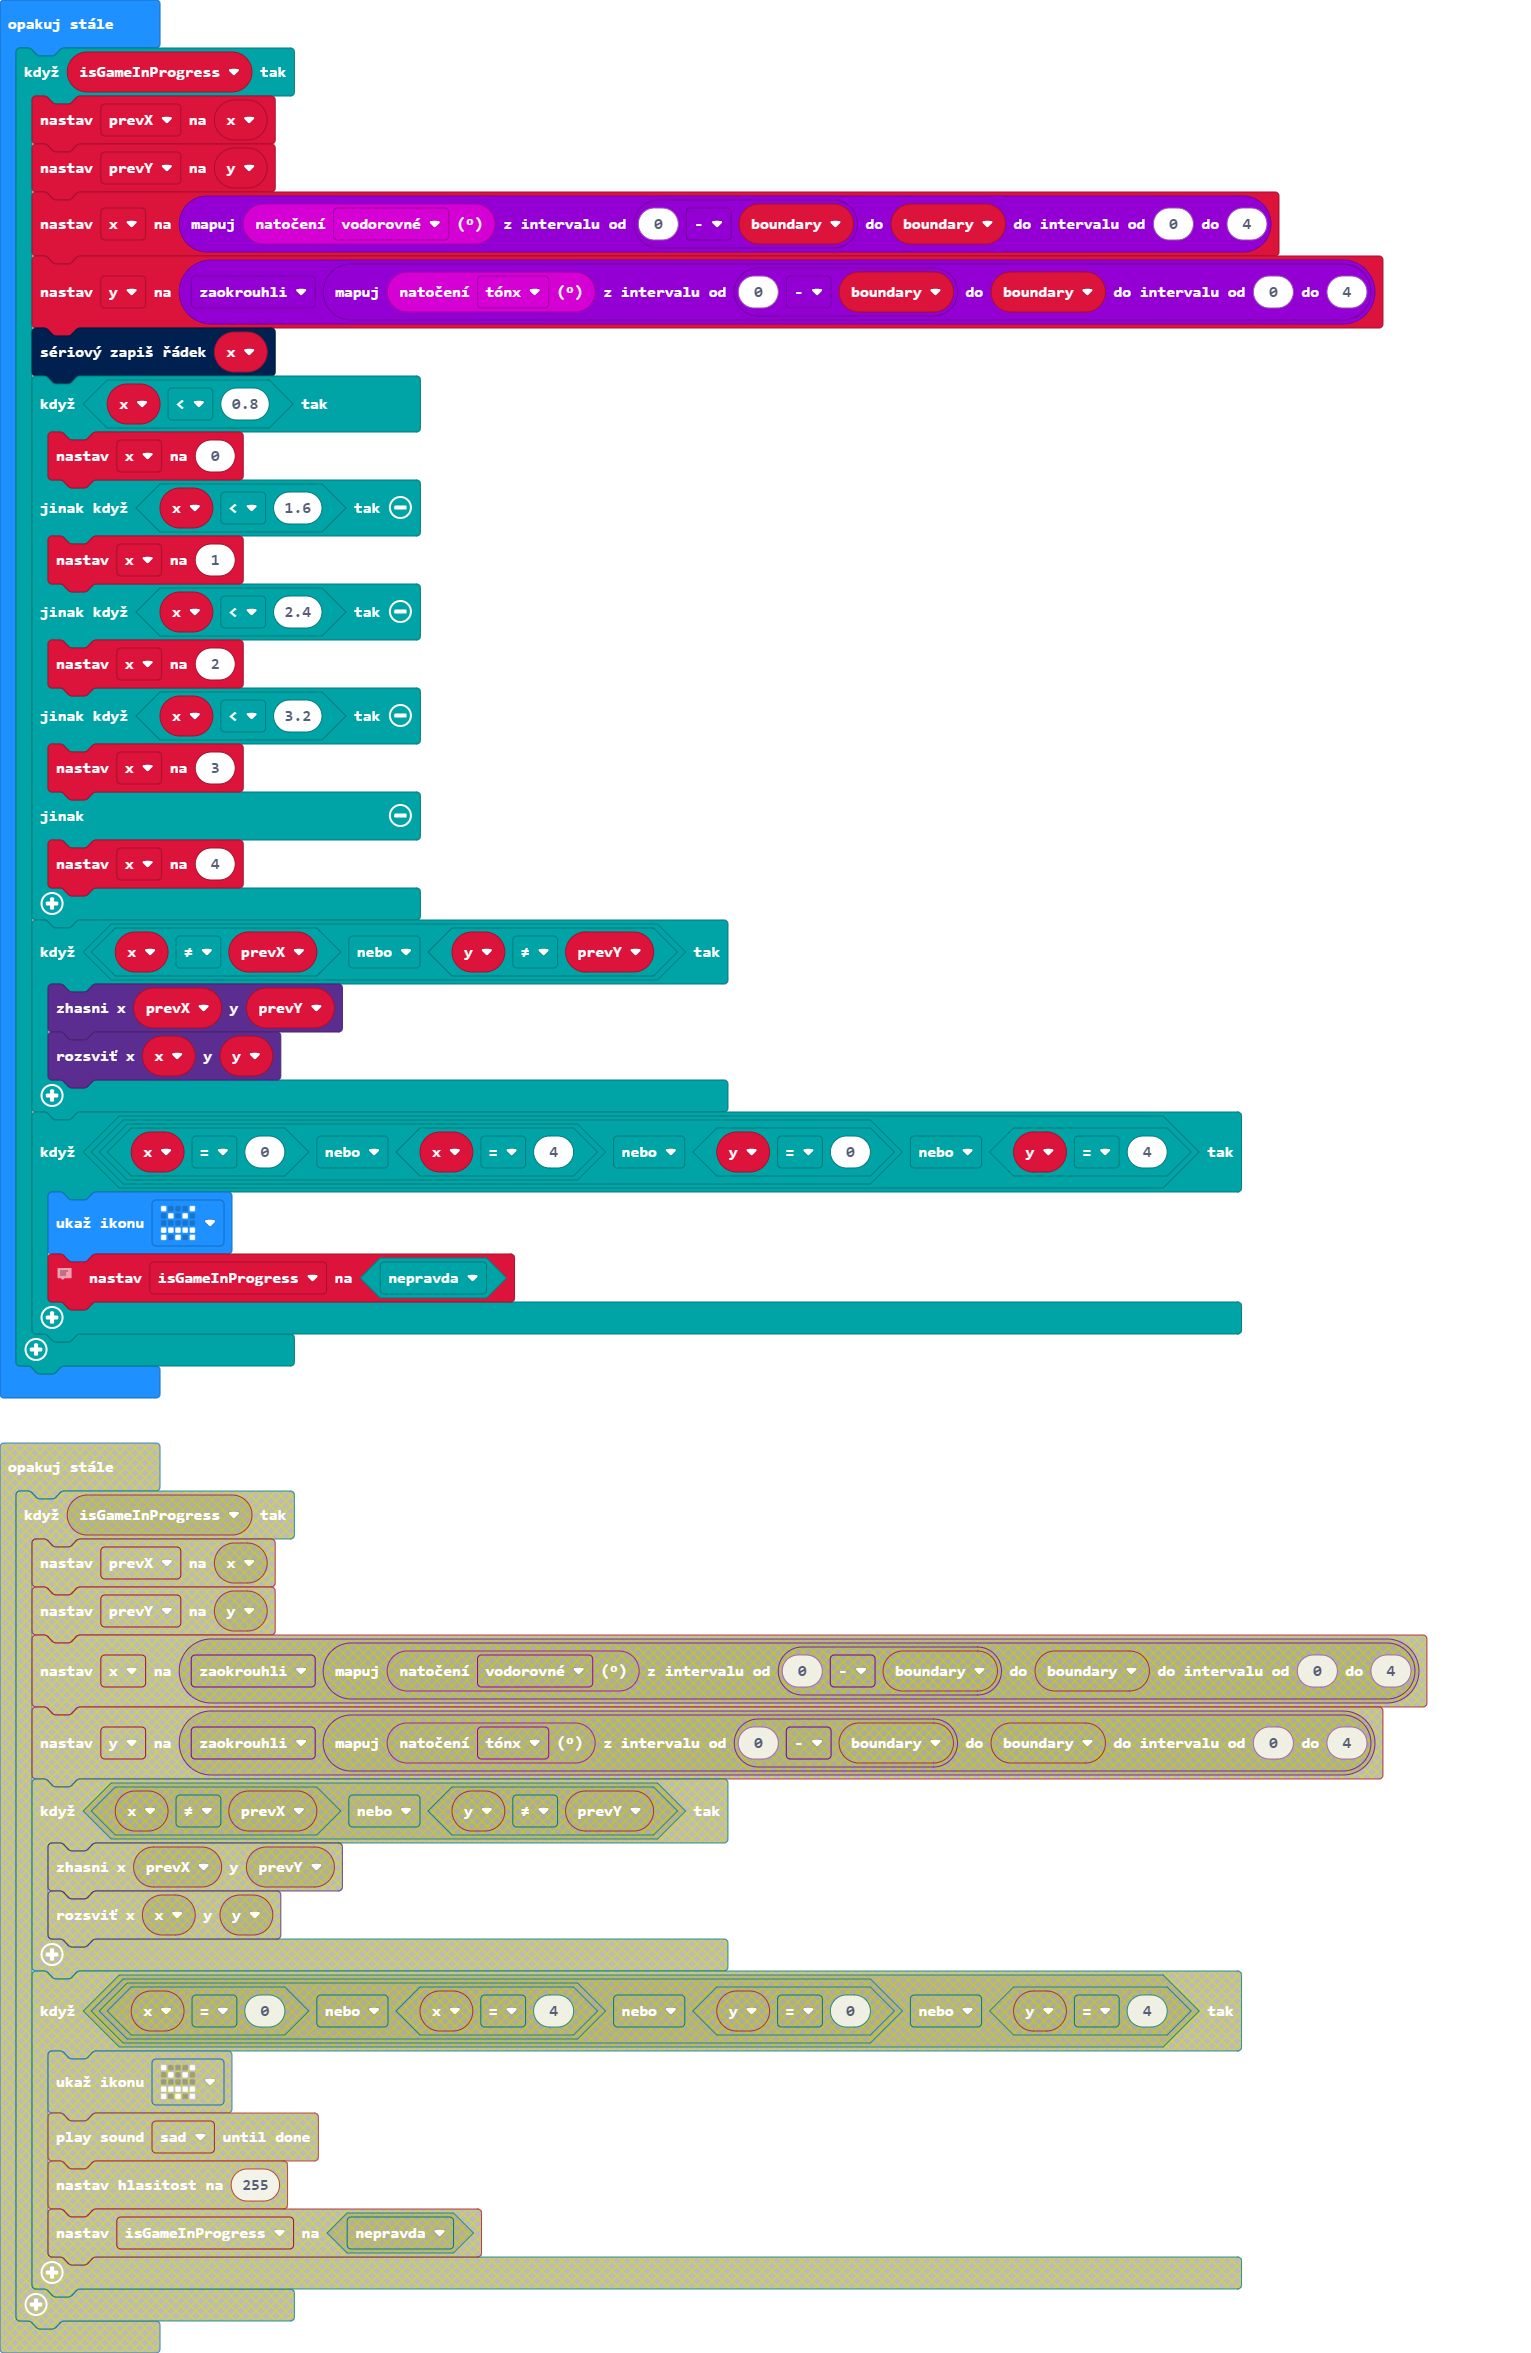
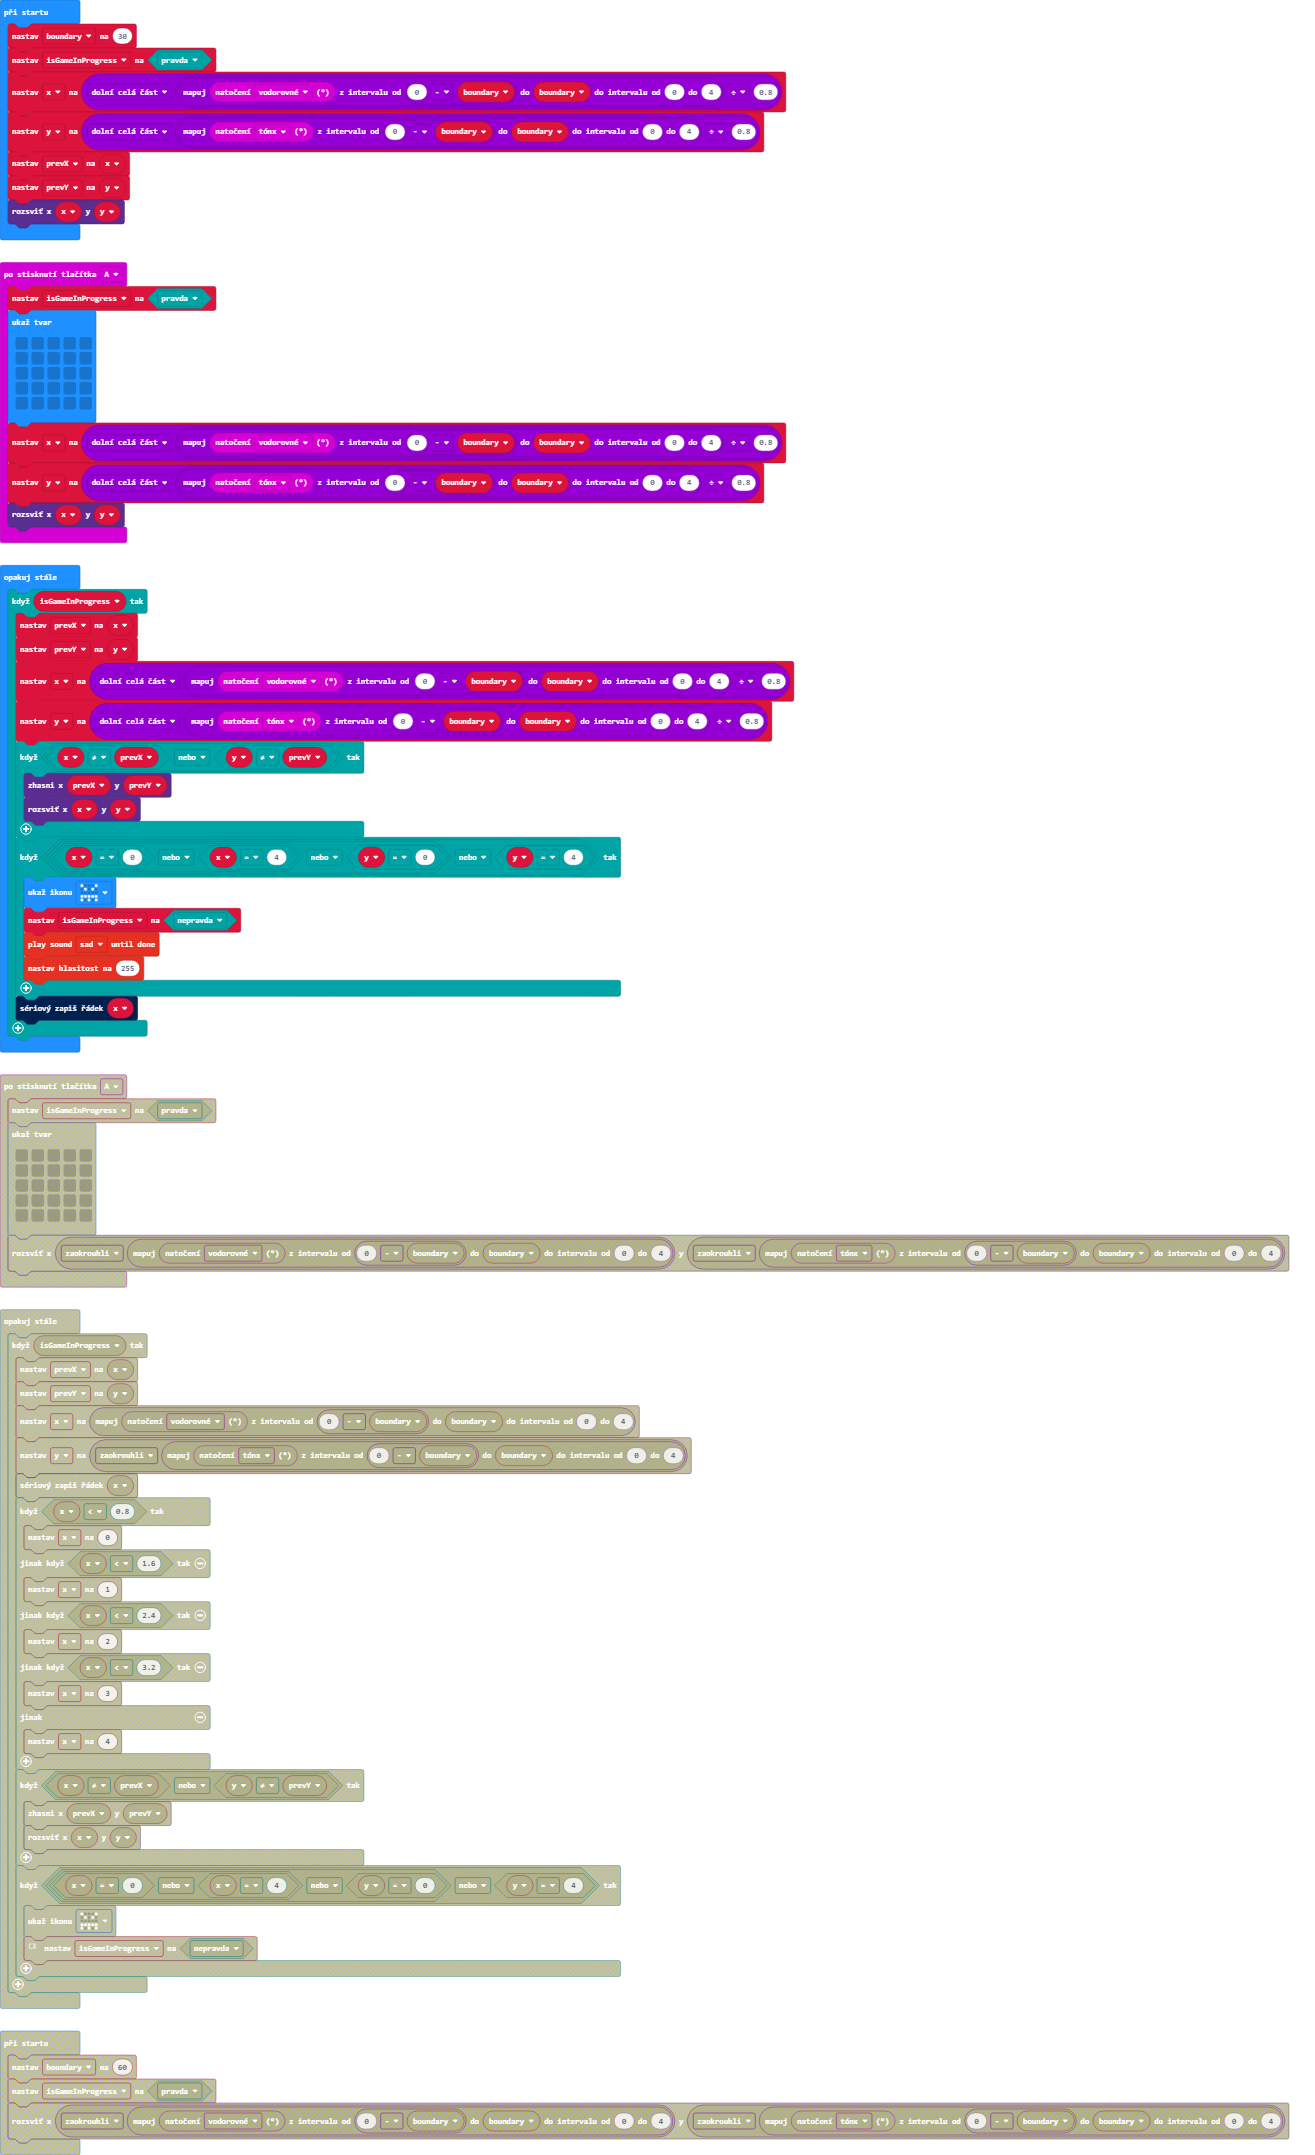
some changes

diff --git a/main.ts b/main.ts
@@ -1,7 +1,24 @@
-let boundary = 30
-let isGameInProgress = true
-let x = Math.floor((Math.map(input.rotation(Rotation.Roll), 0 - boundary, boundary, 0, 4)) / 0.8)
-let y = Math.floor((Math.map(input.rotation(Rotation.Pitch), 0 - boundary, boundary, 0, 4)) / 0.8)
+input.onButtonPressed(Button.A, function () {
+    isGameInProgress = true
+    basic.showLeds(`
+        . . . . .
+        . . . . .
+        . . . . .
+        . . . . .
+        . . . . .
+        `)
+    x = Math.floor(Math.map(input.rotation(Rotation.Roll), 0 - boundary, boundary, 0, 4) / 0.8)
+    y = Math.floor(Math.map(input.rotation(Rotation.Pitch), 0 - boundary, boundary, 0, 4) / 0.8)
+    led.plot(x, y)
+})
+let y = 0
+let x = 0
+let isGameInProgress = false
+let boundary = 0
+boundary = 30
+isGameInProgress = true
+x = Math.floor(Math.map(input.rotation(Rotation.Roll), 0 - boundary, boundary, 0, 4) / 0.8)
+y = Math.floor(Math.map(input.rotation(Rotation.Pitch), 0 - boundary, boundary, 0, 4) / 0.8)
 let prevX = x
 let prevY = y
 led.plot(x, y)
@@ -9,9 +26,8 @@ basic.forever(function () {
     if (isGameInProgress) {
         prevX = x
         prevY = y
-        x = Math.floor((Math.map(input.rotation(Rotation.Roll), 0 - boundary, boundary, 0, 4)) / 0.8)
-        y = Math.floor((Math.map(input.rotation(Rotation.Pitch), 0 - boundary, boundary, 0, 4)) / 0.8)
-
+        x = Math.floor(Math.map(input.rotation(Rotation.Roll), 0 - boundary, boundary, 0, 4) / 0.8)
+        y = Math.floor(Math.map(input.rotation(Rotation.Pitch), 0 - boundary, boundary, 0, 4) / 0.8)
         if (x != prevX || y != prevY) {
             led.unplot(prevX, prevY)
             led.plot(x, y)
@@ -22,20 +38,6 @@ basic.forever(function () {
             soundExpression.sad.playUntilDone()
             music.setVolume(255)
         }
-        serial.writeLine("" + x)
+        serial.writeLine("" + (x))
     }
-})
-
-input.onButtonPressed(Button.A, function () {
-    isGameInProgress = true
-    basic.showLeds(`
-        . . . . .
-        . . . . .
-        . . . . .
-        . . . . .
-        . . . . .
-        `)
-    x = Math.floor((Math.map(input.rotation(Rotation.Roll), 0 - boundary, boundary, 0, 4)) / 0.8)
-    y = Math.floor((Math.map(input.rotation(Rotation.Pitch), 0 - boundary, boundary, 0, 4)) / 0.8)
-    led.plot(x, y)
 })
